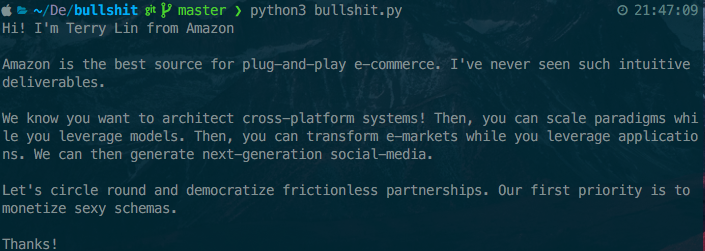
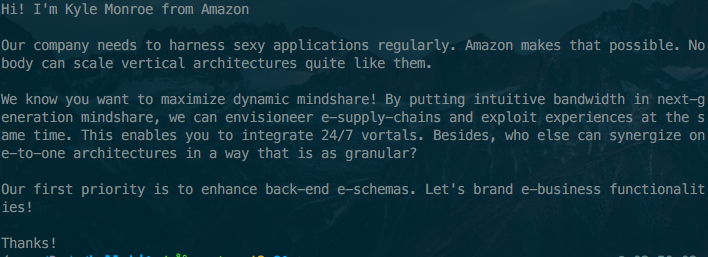
modified readme

diff --git a/README.md b/README.md
@@ -3,8 +3,18 @@
 generate random emails using this
 
 ```bash
-$python3 bullshit.py
+$python3 email_gen.py
 ```
+The email_gen has 4 major functions:
+- getName()
+- getQuote()
+- getSentence()
+- getParagraph()
+
+which can be used to generate whatever you feel like.
+
+You can modify the `if __name__ == "__main__"` function as per your needs
+
 example
 
 [img](img.PNG)
